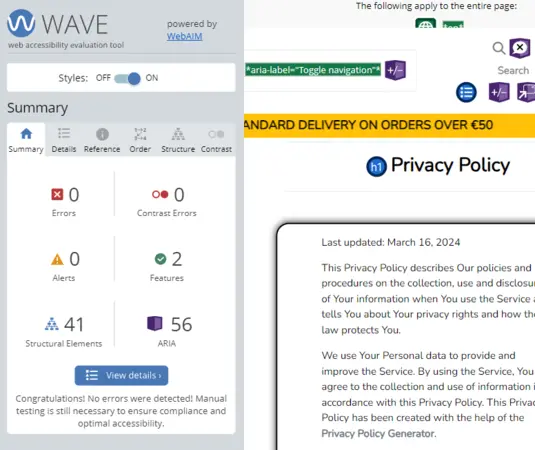
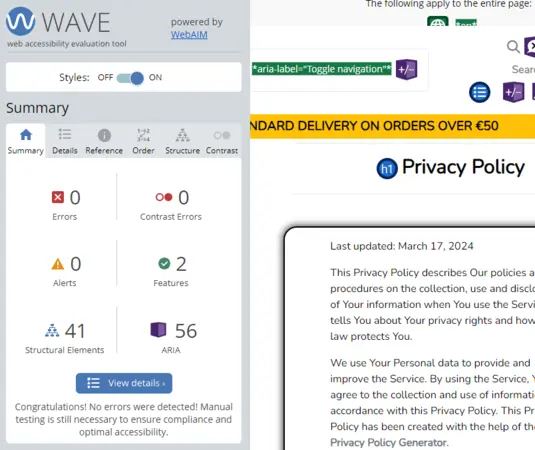
privacy policy updated, footer layout fixed

diff --git a/templates/privacy_policy/privacy_policy.html b/templates/privacy_policy/privacy_policy.html
@@ -28,21 +28,21 @@
         <div class="card col-12 col-md-10 col-lg-8 offset-md-1 offset-lg-2 mt-3 mb-3">
             <div class="row mx-0">
                 <div class="col-12 col-md-10 offset-md-1 mt-3 mb-3">
-                    <p>Last updated: March 16, 2024</p>
+                    <p>Last updated: March 17, 2024</p>
                     <p>This Privacy Policy describes Our policies and procedures on the collection, use and disclosure
                         of Your information when You use the Service and tells You about Your privacy rights and how the
                         law protects You.</p>
                     <p>We use Your Personal data to provide and improve the Service. By using the Service, You agree to
                         the collection and use of information in accordance with this Privacy Policy. This Privacy
-                        Policy has been created with the help of the <a class="font-weight-bold text-muted"
-                            href="https://www.termsfeed.com/privacy-policy-generator/" target="_blank">Privacy Policy
+                        Policy has been created with the help of the <a
+                            href="https://www.termsfeed.com/privacy-policy-generator/" class="font-weight-bold text-muted" target="_blank">Privacy Policy
                             Generator</a>.</p>
-                    <h2>Interpretation and Definitions</h2>
-                    <h3>Interpretation</h3>
+                    <h2 class="logo-font font-weight-bold">Interpretation and Definitions</h2>
+                    <h3 class="logo-font font-weight-bold">Interpretation</h3>
                     <p>The words of which the initial letter is capitalized have meanings defined under the following
                         conditions. The following definitions shall have the same meaning regardless of whether they
                         appear in singular or in plural.</p>
-                    <h3>Definitions</h3>
+                    <h3 class="logo-font font-weight-bold">Definitions</h3>
                     <p>For the purposes of this Privacy Policy:</p>
                     <ul>
                         <li>
@@ -93,8 +93,7 @@
                         </li>
                         <li>
                             <p><strong>Website</strong> refers to TopTech, accessible from <a
-                                    class="font-weight-bold text-muted"
-                                    href="https://toptech-244e7b312287.herokuapp.com/" rel="external nofollow noopener"
+                                    href="https://toptech-244e7b312287.herokuapp.com/" rel="external nofollow noopener" class="font-weight-bold text-muted"
                                     target="_blank">https://toptech-244e7b312287.herokuapp.com/</a></p>
                         </li>
                         <li>
@@ -103,16 +102,30 @@
                                 Service, as applicable.</p>
                         </li>
                     </ul>
-                    <h2>Collecting and Using Your Personal Data</h2>
-                    <h3>Types of Data Collected</h3>
-                    <h4>Personal Data</h4>
+                    <h2 class="logo-font font-weight-bold">Collecting and Using Your Personal Data</h2>
+                    <h3 class="logo-font font-weight-bold">Types of Data Collected</h3>
+                    <h4 class="logo-font font-weight-bold">Personal Data</h4>
                     <p>While using Our Service, We may ask You to provide Us with certain personally identifiable
                         information that can be used to contact or identify You. Personally identifiable information may
                         include, but is not limited to:</p>
                     <ul>
-                        <li>Usage Data</li>
+                        <li>
+                            <p>Email address</p>
+                        </li>
+                        <li>
+                            <p>First name and last name</p>
+                        </li>
+                        <li>
+                            <p>Phone number</p>
+                        </li>
+                        <li>
+                            <p>Address, State, Province, ZIP/Postal code, City</p>
+                        </li>
+                        <li>
+                            <p>Usage Data</p>
+                        </li>
                     </ul>
-                    <h4>Usage Data</h4>
+                    <h4 class="logo-font font-weight-bold">Usage Data</h4>
                     <p>Usage Data is collected automatically when using the Service.</p>
                     <p>Usage Data may include information such as Your Device's Internet Protocol address (e.g. IP
                         address), browser type, browser version, the pages of our Service that You visit, the time and
@@ -124,7 +137,7 @@
                         of mobile Internet browser You use, unique device identifiers and other diagnostic data.</p>
                     <p>We may also collect information that Your browser sends whenever You visit our Service or when
                         You access the Service by or through a mobile device.</p>
-                    <h4>Tracking Technologies and Cookies</h4>
+                    <h4 class="logo-font font-weight-bold">Tracking Technologies and Cookies</h4>
                     <p>We use Cookies and similar tracking technologies to track the activity on Our Service and store
                         certain information. Tracking technologies used are beacons, tags, and scripts to collect and
                         track information and to improve and analyze Our Service. The technologies We use may include:
@@ -145,8 +158,7 @@
                     <p>Cookies can be &quot;Persistent&quot; or &quot;Session&quot; Cookies. Persistent Cookies remain
                         on Your personal computer or mobile device when You go offline, while Session Cookies are
                         deleted as soon as You close Your web browser. You can learn more about cookies on <a
-                            class="font-weight-bold text-muted"
-                            href="https://www.termsfeed.com/blog/cookies/#What_Are_Cookies" target="_blank">TermsFeed
+                            href="https://www.termsfeed.com/blog/cookies/#What_Are_Cookies" class="font-weight-bold text-muted" target="_blank">TermsFeed
                             website</a> article.</p>
                     <p>We use both Session and Persistent Cookies for the purposes set out below:</p>
                     <ul>
@@ -179,7 +191,7 @@
                     </ul>
                     <p>For more information about the cookies we use and your choices regarding cookies, please visit
                         our Cookies Policy or the Cookies section of our Privacy Policy.</p>
-                    <h3>Use of Your Personal Data</h3>
+                    <h3 class="logo-font font-weight-bold">Use of Your Personal Data</h3>
                     <p>The Company may use Personal Data for the following purposes:</p>
                     <ul>
                         <li>
@@ -245,7 +257,7 @@
                         <li><strong>With Your consent</strong>: We may disclose Your personal information for any other
                             purpose with Your consent.</li>
                     </ul>
-                    <h3>Retention of Your Personal Data</h3>
+                    <h3 class="logo-font font-weight-bold">Retention of Your Personal Data</h3>
                     <p>The Company will retain Your Personal Data only for as long as is necessary for the purposes set
                         out in this Privacy Policy. We will retain and use Your Personal Data to the extent necessary to
                         comply with our legal obligations (for example, if we are required to retain your data to comply
@@ -254,7 +266,7 @@
                         retained for a shorter period of time, except when this data is used to strengthen the security
                         or to improve the functionality of Our Service, or We are legally obligated to retain this data
                         for longer time periods.</p>
-                    <h3>Transfer of Your Personal Data</h3>
+                    <h3 class="logo-font font-weight-bold">Transfer of Your Personal Data</h3>
                     <p>Your information, including Personal Data, is processed at the Company's operating offices and in
                         any other places where the parties involved in the processing are located. It means that this
                         information may be transferred to — and maintained on — computers located outside of Your state,
@@ -266,7 +278,7 @@
                         and in accordance with this Privacy Policy and no transfer of Your Personal Data will take place
                         to an organization or a country unless there are adequate controls in place including the
                         security of Your data and other personal information.</p>
-                    <h3>Delete Your Personal Data</h3>
+                    <h3 class="logo-font font-weight-bold">Delete Your Personal Data</h3>
                     <p>You have the right to delete or request that We assist in deleting the Personal Data that We have
                         collected about You.</p>
                     <p>Our Service may give You the ability to delete certain information about You from within the
@@ -277,16 +289,16 @@
                         information that You have provided to Us.</p>
                     <p>Please note, however, that We may need to retain certain information when we have a legal
                         obligation or lawful basis to do so.</p>
-                    <h3>Disclosure of Your Personal Data</h3>
-                    <h4>Business Transactions</h4>
+                    <h3 class="logo-font font-weight-bold">Disclosure of Your Personal Data</h3>
+                    <h4 class="logo-font font-weight-bold">Business Transactions</h4>
                     <p>If the Company is involved in a merger, acquisition or asset sale, Your Personal Data may be
                         transferred. We will provide notice before Your Personal Data is transferred and becomes subject
                         to a different Privacy Policy.</p>
-                    <h4>Law enforcement</h4>
+                    <h4 class="logo-font font-weight-bold">Law enforcement</h4>
                     <p>Under certain circumstances, the Company may be required to disclose Your Personal Data if
                         required to do so by law or in response to valid requests by public authorities (e.g. a court or
                         a government agency).</p>
-                    <h4>Other legal requirements</h4>
+                    <h4 class="logo-font font-weight-bold">Other legal requirements</h4>
                     <p>The Company may disclose Your Personal Data in the good faith belief that such action is
                         necessary to:</p>
                     <ul>
@@ -296,12 +308,12 @@
                         <li>Protect the personal safety of Users of the Service or the public</li>
                         <li>Protect against legal liability</li>
                     </ul>
-                    <h3>Security of Your Personal Data</h3>
+                    <h3 class="logo-font font-weight-bold">Security of Your Personal Data</h3>
                     <p>The security of Your Personal Data is important to Us, but remember that no method of
                         transmission over the Internet, or method of electronic storage is 100% secure. While We strive
                         to use commercially acceptable means to protect Your Personal Data, We cannot guarantee its
                         absolute security.</p>
-                    <h2>Children's Privacy</h2>
+                    <h2 class="logo-font font-weight-bold">Children's Privacy</h2>
                     <p>Our Service does not address anyone under the age of 13. We do not knowingly collect personally
                         identifiable information from anyone under the age of 13. If You are a parent or guardian and
                         You are aware that Your child has provided Us with Personal Data, please contact Us. If We
@@ -310,13 +322,13 @@
                     <p>If We need to rely on consent as a legal basis for processing Your information and Your country
                         requires consent from a parent, We may require Your parent's consent before We collect and use
                         that information.</p>
-                    <h2>Links to Other Websites</h2>
+                    <h2 class="logo-font font-weight-bold">Links to Other Websites</h2>
                     <p>Our Service may contain links to other websites that are not operated by Us. If You click on a
                         third party link, You will be directed to that third party's site. We strongly advise You to
                         review the Privacy Policy of every site You visit.</p>
                     <p>We have no control over and assume no responsibility for the content, privacy policies or
                         practices of any third party sites or services.</p>
-                    <h2>Changes to this Privacy Policy</h2>
+                    <h2 class="logo-font font-weight-bold">Changes to this Privacy Policy</h2>
                     <p>We may update Our Privacy Policy from time to time. We will notify You of any changes by posting
                         the new Privacy Policy on this page.</p>
                     <p>We will let You know via email and/or a prominent notice on Our Service, prior to the change
@@ -324,12 +336,11 @@
                         Policy.</p>
                     <p>You are advised to review this Privacy Policy periodically for any changes. Changes to this
                         Privacy Policy are effective when they are posted on this page.</p>
-                    <h2>Contact Us</h2>
+                    <h2 class="logo-font font-weight-bold">Contact Us</h2>
                     <p>If you have any questions about this Privacy Policy, You can contact us:</p>
                     <ul>
-                        <li>By email: toptech007777@gmail.com</li>
+                        <li>By email: <strong>toptech007777@gmail.com</strong></li>
                     </ul>
-
                 </div>
             </div>
         </div>

diff --git a/templates/includes/footer.html b/templates/includes/footer.html
@@ -14,13 +14,13 @@
                     <h3 class="text-monospace text-uppercase font-weight-bold" style="font-size: 20px;">Contact Us!</h3>
                     <p class="mb-1"><strong>Phone Number: </strong>{% if about.phone_number %}{{ about.phone_number }}
                         {% endif %}</p>
-                    <p class="mb-1"><strong>Address: </strong>{% if about.street_address_1 %}
-                        {{ about.street_address_1 }}
-                        {% endif %}{% if about.street_address_2 %}, {{ about.street_address_2 }}{% endif %}
-                        {% if about.city_or_town %}, {{ about.city_or_town }}{% endif %}
-                        {% if about.get_country_display %},
-                        {{ about.get_country_display }}{% endif %}{% if about.postcode %}, {{ about.postcode|upper }}
-                        {% endif %}</p>
+                    <p class="mb-1"><strong>Address: </strong>
+                        {% if about.street_address_1 %}{{ about.street_address_1 }}, {% endif %}
+                        {% if about.street_address_2 %}{{ about.street_address_2 }}, {% endif %}
+                        {% if about.city_or_town %}{{ about.city_or_town }}, {% endif %}
+                        {% if about.get_country_display %}{{ about.get_country_display }}, {% endif %}
+                        {% if about.postcode %}{{ about.postcode|upper }}{% endif %}
+                    </p>
                     <p><strong>Email: </strong>{{ about.email_address }}</p>
                 </div>
 
